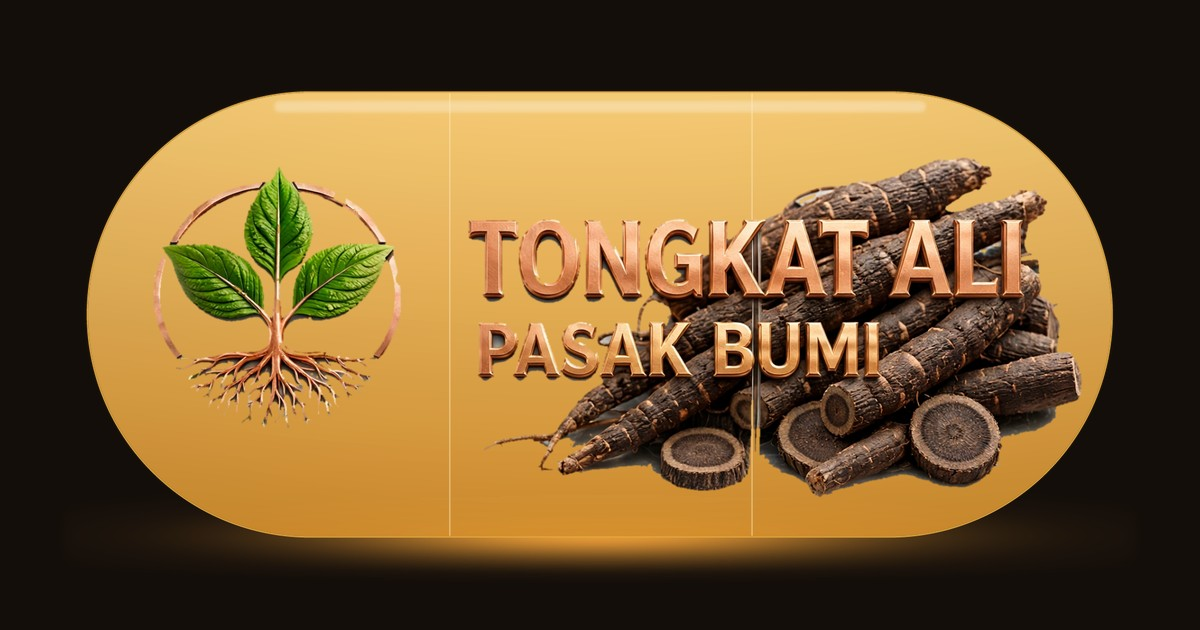
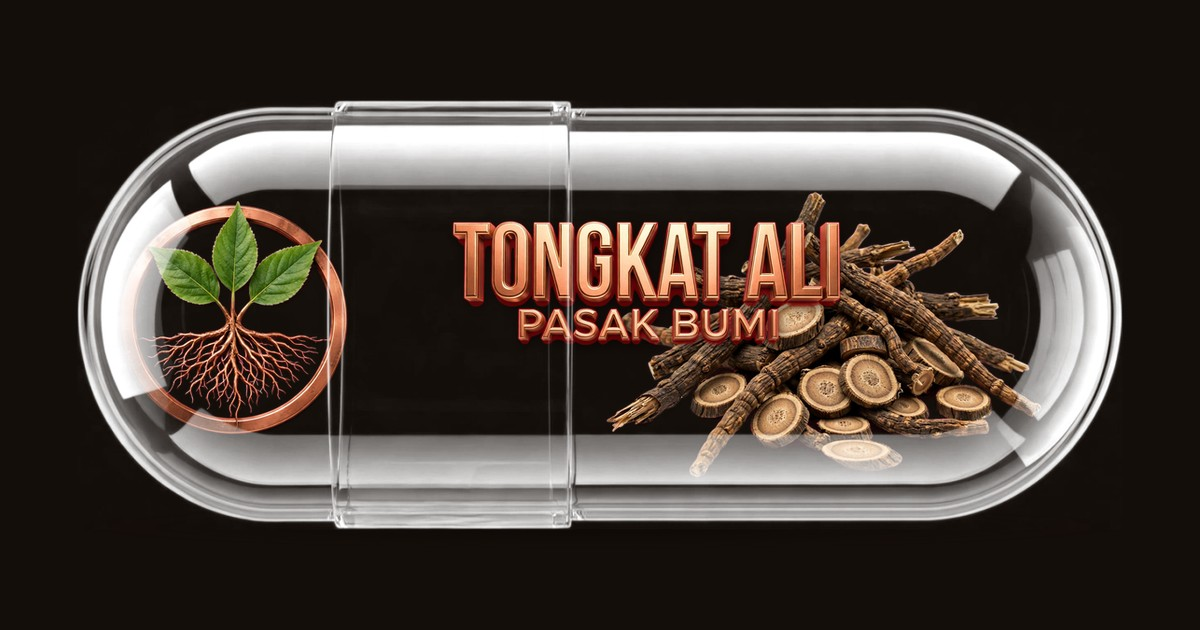
Tongkat Ali: layered glass capsule hero

diff --git a/tongkat-ali.html b/tongkat-ali.html
@@ -30,8 +30,8 @@
 <link rel="preconnect" href="https://fonts.googleapis.com">
 <link rel="preconnect" href="https://fonts.gstatic.com" crossorigin>
 <link href="https://fonts.googleapis.com/css2?family=Cinzel:wght@400;500;600&family=Cormorant+Garamond:ital,wght@0,400;0,500;0,600;1,400&display=swap" rel="stylesheet">
-<link rel="stylesheet" href="/sheet.css?v=8">
-<link rel="preload" as="image" href="/tongkat-ali-hero.webp?v=10" type="image/webp">
+<link rel="stylesheet" href="/sheet.css?v=9">
+<link rel="preload" as="image" href="/tongkat-ali-hero.webp?v=11" type="image/webp">
 <script>document.documentElement.className="js"</script>
 </head>
 <body>
@@ -40,7 +40,7 @@
 <a class="tb-back" href="/#products">&larr; All products</a></header>
 <main>
 <section class="hero2">
-<figure class="himg"><img src="/tongkat-ali-hero.webp?v=10" width="1100" height="550" alt="Root Source Tongkat Ali (Pasak Bumi): sliced and whole roots inside a glass capsule on dark volcanic rock" fetchpriority="high"></figure>
+<figure class="himg"><img src="/tongkat-ali-hero.webp?v=11" width="1200" height="540" alt="Root Source Tongkat Ali (Pasak Bumi): sliced and whole roots inside a glass capsule on dark volcanic rock" fetchpriority="high"></figure>
 <div class="tblock">
 <p class="eyebrow">Fact sheet</p>
 <h1>Tongkat Ali</h1>
@@ -102,10 +102,10 @@
 </div>
 </section>
 <section class="orderband rv" id="order">
-<img src="/tongkat-ali-card.webp" loading="lazy" width="700" height="350" alt="">
+<img src="/tongkat-ali-card.webp" loading="lazy" width="700" height="315" alt="">
 <div><h2>Order Tongkat Ali</h2><p>Choose your size and quantity on our order page. We confirm availability and send our payment details before anything is paid. For questions, you can also message us on WhatsApp.</p><div class="cta"><a class="btn go" href="checkout.html?add=tongkat&size=0&qty=1">Order Tongkat Ali</a> <a class="btn ghost" href="https://wa.me/27687344919?text=Hi%20Root%20Source%2C%20I%20have%20a%20question." target="_blank" rel="noopener">Ask a question on WhatsApp</a></div></div>
 </section>
-<section class="range rv"><h2>Explore the range</h2><div class="rgrid"><a class="rcard" href="/purwoceng.html"><img loading="lazy" src="/purwoceng-card.webp" width="700" height="350" alt="Root Source Purwoceng: Purwoceng roots inside a glass capsule on dark volcanic rock"><span class="rname">Purwoceng</span><span class="rgo">Read the fact sheet &rarr;</span></a><a class="rcard" href="/sambiloto.html"><img loading="lazy" src="/sambiloto-card.webp" width="700" height="350" alt="Root Source Sambiloto: green Sambiloto leaves inside a glass capsule on dark volcanic rock"><span class="rname">Sambiloto</span><span class="rgo">Read the fact sheet &rarr;</span></a><a class="rcard" href="/menthol.html"><img loading="lazy" src="/menthol-card.webp" width="700" height="350" alt="Root Source Menthol Crystals: menthol crystals and mint leaves on dark volcanic rock"><span class="rname">Menthol Crystals</span><span class="rgo">Read the fact sheet &rarr;</span></a></div></section>
+<section class="range rv"><h2>Explore the range</h2><div class="rgrid"><a class="rcard" href="/purwoceng.html"><img loading="lazy" src="/purwoceng-card.webp" width="700" height="315" alt="Root Source Purwoceng: Purwoceng roots inside a glass capsule on dark volcanic rock"><span class="rname">Purwoceng</span><span class="rgo">Read the fact sheet &rarr;</span></a><a class="rcard" href="/sambiloto.html"><img loading="lazy" src="/sambiloto-card.webp" width="700" height="315" alt="Root Source Sambiloto: green Sambiloto leaves inside a glass capsule on dark volcanic rock"><span class="rname">Sambiloto</span><span class="rgo">Read the fact sheet &rarr;</span></a><a class="rcard" href="/menthol.html"><img loading="lazy" src="/menthol-card.webp" width="700" height="315" alt="Root Source Menthol Crystals: menthol crystals and mint leaves on dark volcanic rock"><span class="rname">Menthol Crystals</span><span class="rgo">Read the fact sheet &rarr;</span></a></div></section>
 <section class="srcs"><details><summary>Sources</summary><ul><li><a href="https://doi.org/10.2903/j.efsa.2021.6937" target="_blank" rel="noopener">European Food Safety Authority, scientific opinion on tongkat ali root extract as a novel food, EFSA Journal 2021</a></li><li><a href="https://www.ncbi.nlm.nih.gov/books/NBK609015/" target="_blank" rel="noopener">LiverTox (US National Institutes of Health): Tongkat Ali</a></li></ul></details></section>
 <p class="disc">Information on this page describes traditional use and is for general information only. It is not medical advice, and our products are not intended to diagnose, treat, cure or prevent any disease. Last updated 2 November 2026. <a href="terms.html">Terms and Contact</a></p>
 </main>

diff --git a/sheet.css b/sheet.css
@@ -125,3 +125,6 @@ backdrop-filter:blur(1.5px)}
 
 /* v8: transparent capsule PNG carries its own soft glow */
 .himg{max-width:720px!important;padding:0 8px}.himg img{filter:none!important}
+
+/* v9: natural-proportion glass capsule hero */
+.himg{max-width:760px!important}
